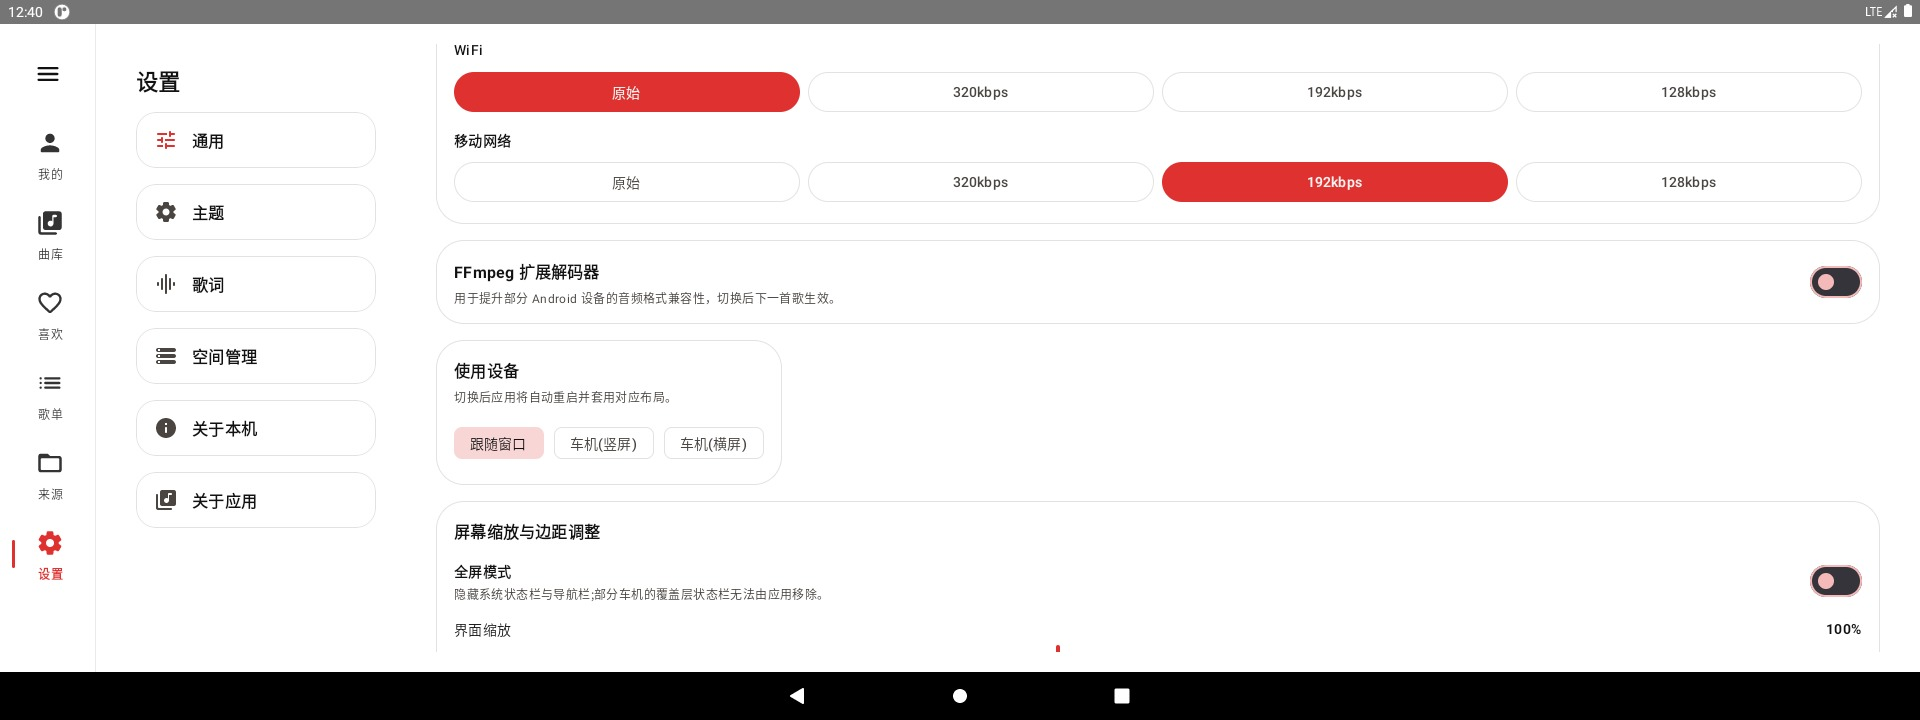
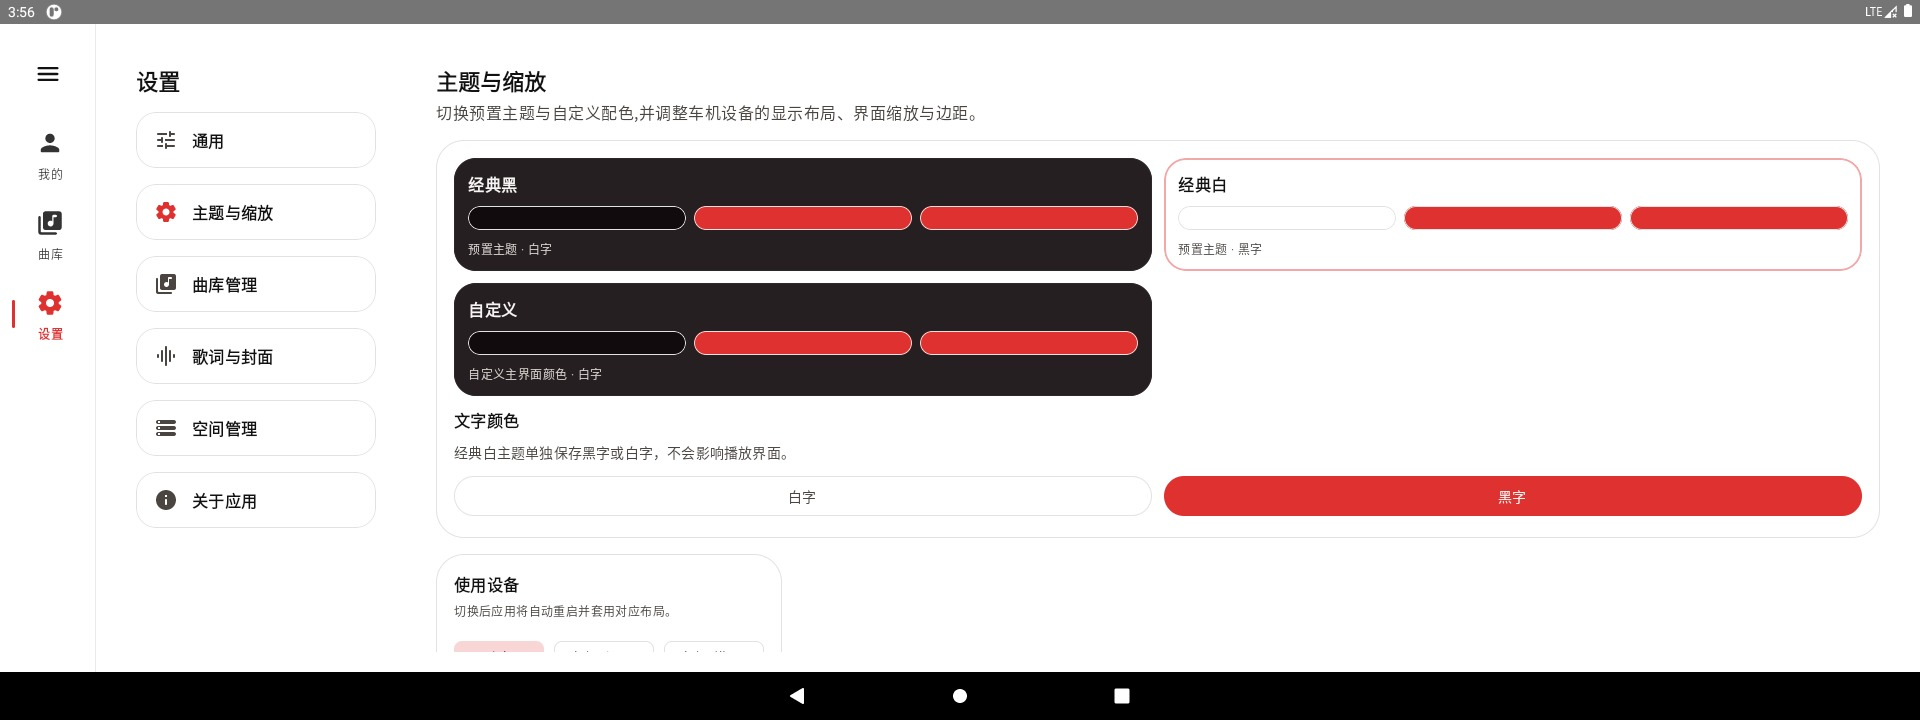
docs: 按新版界面重拍 README 界面预览图
- 新增我的页、曲库管理、歌词与封面、曲库浏览四张截图
- 重拍主题与缩放、屏幕缩放与边距调整两张
- 全屏模式截图替换旧「真车全屏」图,并说明边距滑条置灰
- 截图均为 Android 模拟器 1920x720 实机、简体中文界面

diff --git a/README.md b/README.md
@@ -6,15 +6,27 @@
 
 ## 界面预览
 
-以下均为 **Android 模拟器(车机横屏 1920×720)实机截图**(v1.2.0):
+以下均为 **Android 模拟器(车机横屏 1920×720)实机截图**,界面语言为简体中文:
 
-| 使用设备 · 全屏开关 | 屏幕缩放与边距调整 |
+**我的页**:歌单 / 喜欢 / 专辑 / 艺人 四个入口,右上角电源按钮可完全退出。
+
+![我的页](docs/screenshots/my-page-entries.jpg)
+
+| 曲库管理(歌曲来源 + 曲库扫描) | 歌词与封面(在线双开关) |
 | :---: | :---: |
-| ![使用设备与全屏开关](docs/screenshots/appearance-device-mode.jpg) | ![屏幕缩放与边距调整](docs/screenshots/display-scaling-margins.jpg) |
+| ![曲库管理](docs/screenshots/library-management.jpg) | ![歌词与封面](docs/screenshots/lyrics-and-artwork.jpg) |
 
-**全屏模式**(开启后系统状态栏/导航栏隐藏,回到前台自动重套):
+| 主题与缩放 · 使用设备 | 屏幕缩放与边距调整 |
+| :---: | :---: |
+| ![主题与缩放](docs/screenshots/appearance-device-mode.jpg) | ![缩放与边距](docs/screenshots/display-scaling-margins.jpg) |
 
-![全屏模式](docs/screenshots/real-car-fullscreen.jpg)
+**曲库**:歌曲 / 专辑 / 艺人 / 文件夹 四页签,支持字母索引与批量操作。
+
+![曲库](docs/screenshots/library-browse.jpg)
+
+**全屏模式**:开启后隐藏系统状态栏与导航栏,上下边距滑条自动置灰(全屏下无需让位)。
+
+![全屏模式](docs/screenshots/fullscreen-mode.jpg)
 
 ## 定位与适配
 

diff --git a/CHANGELOG.md b/CHANGELOG.md
@@ -16,6 +16,7 @@
 - 修复:只读 U 盘(FAT32/exFAT)持久授权丢失——申请读写授权失败时自动降级为只读授权重试,链接重启后仍有效
 - 强化:SAF 树链接改为卷 + 相对路径解析,来源卡显示「U 盘 1A2B-3C4D/音乐/华语」形式的文件夹名与目录,不再显示长串 `content://` 地址
 - 强化:链接解析按 UTF-8 字节解码百分号转义,中文、空格、`%` 等文件夹名往返不乱码(新增单元测试覆盖)
+- 文档:README 界面预览图按新版界面重拍(我的页 / 曲库管理 / 歌词与封面 / 主题与缩放 / 曲库 / 全屏模式六张)
 
 ## 1.2.0
 
